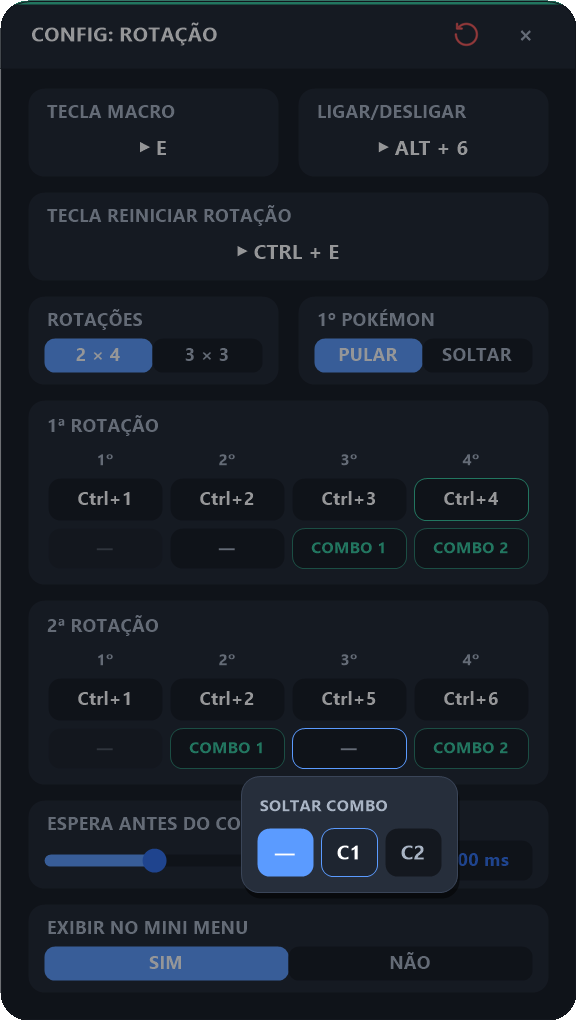
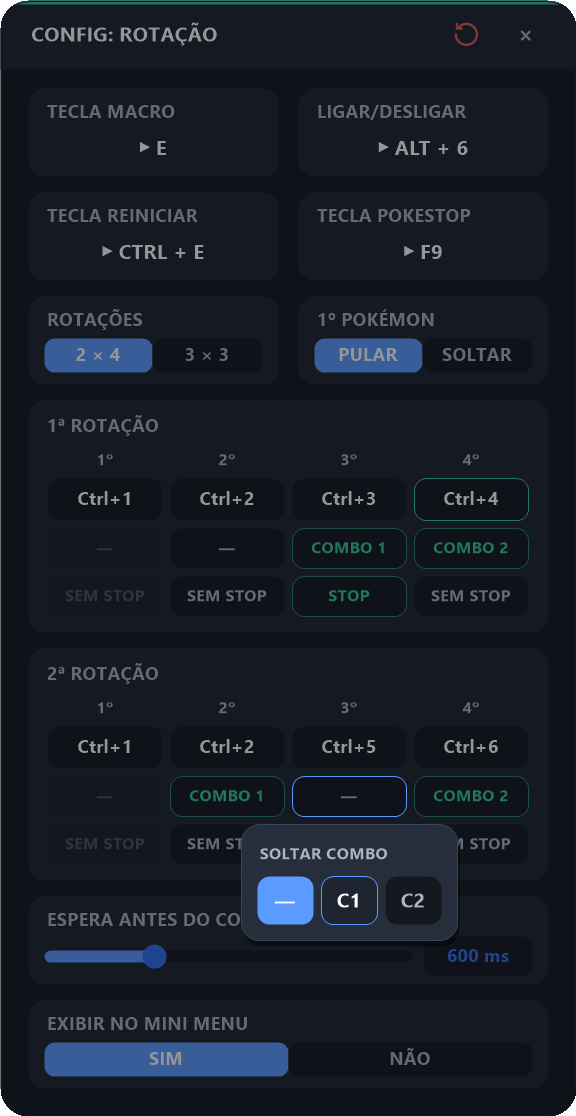
Rotação: Pokestop por pokémon depois da troca (v2.1.0)
Cada passo da Rotação ganhou a opção STOP / SEM STOP. Com STOP, logo
depois do Ctrl+N (e antes do combo pós-troca) o macro aperta a tecla
Pokestop. A tecla é global ([Geral] teclaPokestop) e pode ser definida
tanto na tela da Rotação quanto nas Configurações Gerais.

Docs e imagens atualizadas.

diff --git a/README.md b/README.md
@@ -32,8 +32,8 @@ Tutoriais ilustrados de como configurar e usar cada função, tela por tela:
 | 3 | [Revive](docs/03-revive.md) | Reviver com um botão + detecção do pokémon (ícone do dedo) |
 | 4 | [Combo Revive](docs/04-combo-revive.md) | Reviver e já soltar um combo |
 | 5 | [Cooldown](docs/05-cooldown.md) | Rotação de pokémons com `Ctrl + N` e tempos por posição |
-| 6 | [Rotação](docs/06-rotacao.md) | Uma tecla que troca de pokémon numa ordem salva (e, se quiser, solta um combo logo depois), com o próximo `Ctrl + N` na HUD |
-| 7 | [Configurações Gerais](docs/07-configuracoes-gerais.md) | Prefixo F, Modo Legado, tamanho, HUD vertical, Tecla de Pânico, Full Attack/Defense, atualizações |
+| 6 | [Rotação](docs/06-rotacao.md) | Uma tecla que troca de pokémon numa ordem salva (e, se quiser, aperta o Pokestop e solta um combo logo depois), com o próximo `Ctrl + N` na HUD |
+| 7 | [Configurações Gerais](docs/07-configuracoes-gerais.md) | Prefixo F, Modo Legado, tamanho, HUD vertical, Tecla de Pânico, Full Attack/Defense, Tecla Pokestop, atualizações |
 
 <p align="center"><img src="docs/img/hud-hover.png" width="480" alt="HUD do PokéMacro"></p>
 
@@ -341,9 +341,10 @@ Funciona exatamente igual ao **Combo Principal**, mas é uma configuração sepa
 **Como funciona:**
 1. Dois formatos: **2 × 4** (2 rotações de 4 pokémons, padrão `1-2-3-4 | 1-2-5-6`) ou **3 × 3** (3 rotações de 3, padrão `1-2-3 | 1-4-5 | 1-—-6`). As rotações seguem uma depois da outra, voltando ao início depois da última. Cada formato guarda sua própria configuração.
 2. Passos vazios (`—`) são pulados — ex.: o 2º passo da 3ª rotação no 3 × 3 (o pokémon repetido) vem vazio; com um `Ctrl+N` nele, a repetição passa a sair.
-3. Ligar a Rotação sempre começa do início; a **Tecla Reiniciar Rotação** faz o mesmo no meio do jogo. Por padrão o macro **pula o 1º passo de todas as rotações** (você puxa esse pokémon à mão no começo de cada rotação): no 2 × 4 os apertos enviam `2-3-4 | 2-5-6`, no 3 × 3 `2-3 | 4-5 | 6`, e voltam para o `2`.
+3. Ligar a Rotação sempre começa do início; a **Tecla Reiniciar** faz o mesmo no meio do jogo. Por padrão o macro **pula o 1º passo de todas as rotações** (você puxa esse pokémon à mão no começo de cada rotação): no 2 × 4 os apertos enviam `2-3-4 | 2-5-6`, no 3 × 3 `2-3 | 4-5 | 6`, e voltam para o `2`.
 4. Cada aperto **interrompe o combo em andamento**, para as skills restantes não saírem no pokémon que acabou de entrar.
 5. **Combo depois da troca (opcional, por passo):** cada passo pode soltar o **Combo 1** (config do Combo Principal) ou o **Combo 2** (config do Combo Secundário) logo depois do `Ctrl+N`, após a **Espera antes do combo**. Apertar a Tecla Macro de novo no meio do combo para ele e já faz a próxima troca.
+6. **Pokestop (opcional, por passo):** com o `STOP` ligado num passo, o macro aperta a **Tecla Pokestop** logo depois do `Ctrl+N` — antes do combo pós-troca, se houver.
 
 #### Opções de Configuração
 
@@ -351,11 +352,13 @@ Funciona exatamente igual ao **Combo Principal**, mas é uma configuração sepa
 |-------|----------------|
 | **Tecla Macro** | Tecla que envia o próximo pokémon da rotação |
 | **Ligar/Desligar** | Tecla para ativar/desativar o macro |
-| **Tecla Reiniciar Rotação** | Volta a rotação ao início (só com a Rotação ligada) |
+| **Tecla Reiniciar** | Volta a rotação ao início (só com a Rotação ligada) |
+| **Tecla Pokestop** | Tecla de Pokestop do jogo (a mesma das Configurações Gerais) |
 | **Rotações** | Formato `2 × 4` ou `3 × 3` — a tela mostra um cartão por rotação |
 | **1º Pokémon** | `PULAR` (padrão): o 1º passo das rotações nunca é enviado (puxado à mão). `SOLTAR`: o 1º passo sai normalmente |
 | **Cartões das rotações** | O `Ctrl+N` de cada passo. Clicar num passo abre um seletor com `1` a `6` e `—` (vazio); clicar fora ou `Esc` fecha. Mexer em um passo reinicia a rotação |
 | **Combo depois da troca** | Linha de baixo de cada cartão: `—` (nenhum), `COMBO 1` ou `COMBO 2` — o combo solto logo depois de trocar para aquele passo. Não reinicia a rotação |
+| **Pokestop** | Última linha de cada cartão: `STOP` (aperta a Tecla Pokestop logo depois da troca, antes do combo) ou `SEM STOP` (padrão). Clique para alternar |
 | **Espera antes do combo** | Tempo (0–2000 ms, padrão 500) entre a troca e o combo, para o pokémon já estar fora |
 
 ---
@@ -416,7 +419,13 @@ Uma tecla que **desliga todos os macros de uma vez** e interrompe o que estiver 
 
 ---
 
-### 6. Atualizações
+### 6. Tecla Pokestop (Rotação)
+
+Tecla de Pokestop do jogo. A **Rotação** a aperta logo depois de soltar o pokémon (e antes do combo pós-troca) nos passos com `STOP` ligado. É a mesma tecla do campo **Tecla Pokestop** da tela da Rotação — dá para mudar em qualquer uma das duas.
+
+---
+
+### 7. Atualizações
 
 Cartão no fim da tela, com a versão instalada e dois botões:
 
@@ -424,7 +433,7 @@ Cartão no fim da tela, com a versão instalada e dois botões:
 - **ATUALIZAR** — fica apagado até a verificação achar uma versão nova. Ao clicar, baixa a versão, substitui os arquivos e reinicia o macro sozinho. Seu `config.ini` e o `revive_dedo.bmp` são mantidos.
 - Cada tentativa fica registrada em **`atualizacao.log`**, na pasta do macro. Se der erro, mande esse arquivo: ele mostra onde e por que falhou.
 
-Detalhes e mensagens de erro: [guia de Configurações Gerais](docs/07-configuracoes-gerais.md#passo-8--atualizações).
+Detalhes e mensagens de erro: [guia de Configurações Gerais](docs/07-configuracoes-gerais.md#passo-9--atualizações).
 
 ---
 

diff --git a/CLAUDE.md b/CLAUDE.md
@@ -45,7 +45,7 @@ There is no test suite. To check a change:
 - Combo sequencing (`_RodarSequenciaCombo` in `combo.ahk`) is shared by `comboPrincipal`/`comboSecundario`/`comboRevive` and Rotação's post-swap combo: optional Full Attack key → sequential keys from `teclaInicial` to `teclaFinal` (as `F<n>` or `<n>` depending on the global `usarPrefixoF` setting) → optional Full Defense key. Interruption is a generation counter, not a flag: `InterromperCombo()` bumps `_comboGeracao` and returns the new value; every combo run captures that `gen` and stops once it changes (a flag broke when the interrupter also runs a combo — AHK suspends the older thread until the newer one finishes, so the old combo resumed afterwards). All waits go through `EsperarInterrompivel(ms, gen)`, which polls `_ComboPodeContinuar(gen)` (generation unchanged and `JogoAtivo()`) every ~10ms using a deadline computed from `A_TickCount` — plain `Sleep` accumulation was found to drift under Windows' ~15.6ms timer granularity.
 - `revive.ahk`'s `_EnviarSequenciaRevive` runs in `Critical` mode so another hotkey thread can't interleave key-up/down events mid-sequence; `_reviveOcupado` is a re-entrancy lock shared between `revive` and `comboRevive` (both ultimately call this same function). Behavior branches on the global `modoLegado` setting (right-click targeting vs. `Ctrl+1` slot select).
 - `cooldown.ahk` walks Pokémon slots from `pokemonInicial` down to 1, sending `Ctrl+<mapped key>` per slot (no mouse click/position) (the mapped key lets slot order differ from team order), waiting a per-slot configured number of seconds between each. Auto re-focuses the game window mid-wait if it lost focus, and bails out if the game process disappears entirely.
-- `rotacao.ahk`: each exec press sends one `Ctrl+<slot>` and advances `_rotacaoPos` (in-memory only) through the sequence of all rotations in order. Format `formato` = `2x4` (2 rotations × 4 steps, INI keys `r<rot>p<passo>`) or `3x3` (3 × 3, keys `t<rot>p<passo>` — separate so switching keeps both configs); see `GetFormatoRotacao`/`_CfgSlotRotacao`/`_ChaveSlotRotacao`. 0 = empty/skipped step (3x3 defaults rot 3 step 2 to empty: the "repeated pokémon" the user can opt into). The config screen's height depends on the format (`AlturaConfigRotacao`), so changing format reopens it via `SetTimer`. Turning the macro on (`DefinirMacro`), editing the config, or the extra `teclaReiniciar` hotkey (a non-exec slot in `_HotkeySlots`) reset it to step 1 of the sequence. Unless `enviarPrimeiro=true`, `RotacaoSequencia` drops step 1 of *every* rotation (the player pulls that pokémon manually at the start of each rotation), so the default sequence is `2-3-4 | 2-5-6` (2x4) or `2-3 | 4-5 | 6` (3x3). Each press also calls `InterromperCombo()` so a running combo stops before the swap. Each step can also fire a combo after the swap (INI key = step key + `c`, 0 none / 1 `comboPrincipal` / 2 `comboSecundario`, see `_CfgComboRotacao`/`COMBOS_ROTACAO`), after `delayCombo` ms; it runs from a `SetTimer` (`_RodarComboRotacao`), not the hotkey thread, because `#MaxThreadsPerHotkey 2` would drop rapid presses during a long combo. It uses that combo's keys even if that combo macro is off. Its icon is `icons/rotacao.png`; when the macro is on, `_HudDesenharIconeRotacao` darkens it and draws the next slot number on top.
+- `rotacao.ahk`: each exec press sends one `Ctrl+<slot>` and advances `_rotacaoPos` (in-memory only) through the sequence of all rotations in order. Format `formato` = `2x4` (2 rotations × 4 steps, INI keys `r<rot>p<passo>`) or `3x3` (3 × 3, keys `t<rot>p<passo>` — separate so switching keeps both configs); see `GetFormatoRotacao`/`_CfgSlotRotacao`/`_ChaveSlotRotacao`. 0 = empty/skipped step (3x3 defaults rot 3 step 2 to empty: the "repeated pokémon" the user can opt into). The config screen's height depends on the format (`AlturaConfigRotacao`), so changing format reopens it via `SetTimer`. Turning the macro on (`DefinirMacro`), editing the config, or the extra `teclaReiniciar` hotkey (a non-exec slot in `_HotkeySlots`) reset it to step 1 of the sequence. Unless `enviarPrimeiro=true`, `RotacaoSequencia` drops step 1 of *every* rotation (the player pulls that pokémon manually at the start of each rotation), so the default sequence is `2-3-4 | 2-5-6` (2x4) or `2-3 | 4-5 | 6` (3x3). Each press also calls `InterromperCombo()` so a running combo stops before the swap. Each step can also fire a combo after the swap (INI key = step key + `c`, 0 none / 1 `comboPrincipal` / 2 `comboSecundario`, see `_CfgComboRotacao`/`COMBOS_ROTACAO`), after `delayCombo` ms; it runs from a `SetTimer` (`_RodarComboRotacao`), not the hotkey thread, because `#MaxThreadsPerHotkey 2` would drop rapid presses during a long combo. It uses that combo's keys even if that combo macro is off. Each step can also have Pokestop on (INI key = step key + `s`, `true`/`false`, see `_CfgPokestopRotacao`): right after the `Ctrl+<slot>` (in the hotkey thread, before the combo timer) it sends the global `Geral/teclaPokestop` key (`GetTeclaPokestop`), editable from both the Rotação and Configurações Gerais screens. Its icon is `icons/rotacao.png`; when the macro is on, `_HudDesenharIconeRotacao` darkens it and draws the next slot number on top.
 - All macro key/hotkey capture and conflict checking goes through `lib/input.ahk` + `ConflitoDeTecla`/`HotkeySlotExiste` in `macros/hotkeys.ahk` — don't hand-roll new `Hotkey()` registrations elsewhere.
 
 ### User documentation (`README.md` + `docs/`)

diff --git a/docs/07-configuracoes-gerais.md b/docs/07-configuracoes-gerais.md
@@ -17,9 +17,10 @@ Opções **globais**, que valem para todos os macros. Para abrir: passe o mouse 
 | **5** | Tecla de Pânico | Desliga tudo de uma vez |
 | **6** | Full Attack | Tecla de Full Attack usada pelos combos |
 | **7** | Full Defense | Tecla de Full Defense usada pelos combos e pelo Cooldown |
-| **8** | Macros exibidos na interface | Mostra/esconde cada ícone da HUD |
-| **9** | Atualizações | Mostra a versão instalada; **VERIFICAR** procura uma versão nova |
-| **10** | Atualizar | Só fica clicável quando há versão nova — baixa, instala e reinicia |
+| **8** | Tecla Pokestop (Rotação) | Tecla de Pokestop do jogo, apertada pela Rotação nos passos com `STOP` |
+| **9** | Macros exibidos na interface | Mostra/esconde cada ícone da HUD |
+| **10** | Atualizações | Mostra a versão instalada; **VERIFICAR** procura uma versão nova |
+| **11** | Atualizar | Só fica clicável quando há versão nova — baixa, instala e reinicia |
 
 ---
 
@@ -75,18 +76,24 @@ Essas teclas são **definidas uma vez aqui** e cada macro decide se usa ou não:
 | Combo Revive | Pílulas **Full Attack** / **Full Defense** na [tela do Combo Revive](04-combo-revive.md#42-configurando) |
 | Cooldown | Pílula **Full Defense (Cooldown)** na [tela do Cooldown](05-cooldown.md#52-configurando) |
 
-### Passo 7 — Macros exibidos na interface
+### Passo 7 — Tecla Pokestop
+
+Clique em **TECLA POKESTOP (ROTAÇÃO)** (8) e aperte a tecla de Pokestop do jogo. A [Rotação](06-rotacao.md#65-pokestop-depois-da-troca) aperta essa tecla logo depois de soltar o pokémon, nos passos em que o `STOP` estiver ligado (antes do combo pós-troca, se houver).
+
+É a **mesma** tecla do campo **Tecla Pokestop** da tela da Rotação: mudar em uma das telas muda na outra.
+
+### Passo 8 — Macros exibidos na interface
 
 Um cartão `SIM | NÃO` para cada macro. Com `NÃO`, o ícone some da HUD — útil para esconder macros que você não usa. É a mesma opção **Exibir no Mini Menu** que existe em cada tela de macro.
 
-### Passo 8 — Atualizações
+### Passo 9 — Atualizações
 
 Não precisa mais baixar a pasta inteira do GitHub a cada versão nova:
 
-1. Clique em **VERIFICAR** (9). O macro consulta o GitHub (leva um segundo ou dois) e a linha de cima do cartão mostra o resultado:
+1. Clique em **VERIFICAR** (10). O macro consulta o GitHub (leva um segundo ou dois) e a linha de cima do cartão mostra o resultado:
    - *"VERSÃO 2.0.0 · JÁ É A MAIS RECENTE"* — está tudo em dia;
    - *"NOVA VERSÃO 2.1.0 DISPONÍVEL!"* (em verde) — o botão **ATUALIZAR** acende.
-2. Clique em **ATUALIZAR** (10). O macro baixa a versão nova, troca os arquivos e **reinicia sozinho**. Ao voltar, aparece o aviso *"Atualizado para a versão 2.1.0"*.
+2. Clique em **ATUALIZAR** (11). O macro baixa a versão nova, troca os arquivos e **reinicia sozinho**. Ao voltar, aparece o aviso *"Atualizado para a versão 2.1.0"*.
 
 <p align="center"><img src="img/config-geral-atualizacao.png" width="340" alt="Cartão de atualizações com versão nova encontrada e o botão ATUALIZAR liberado"></p>
 
